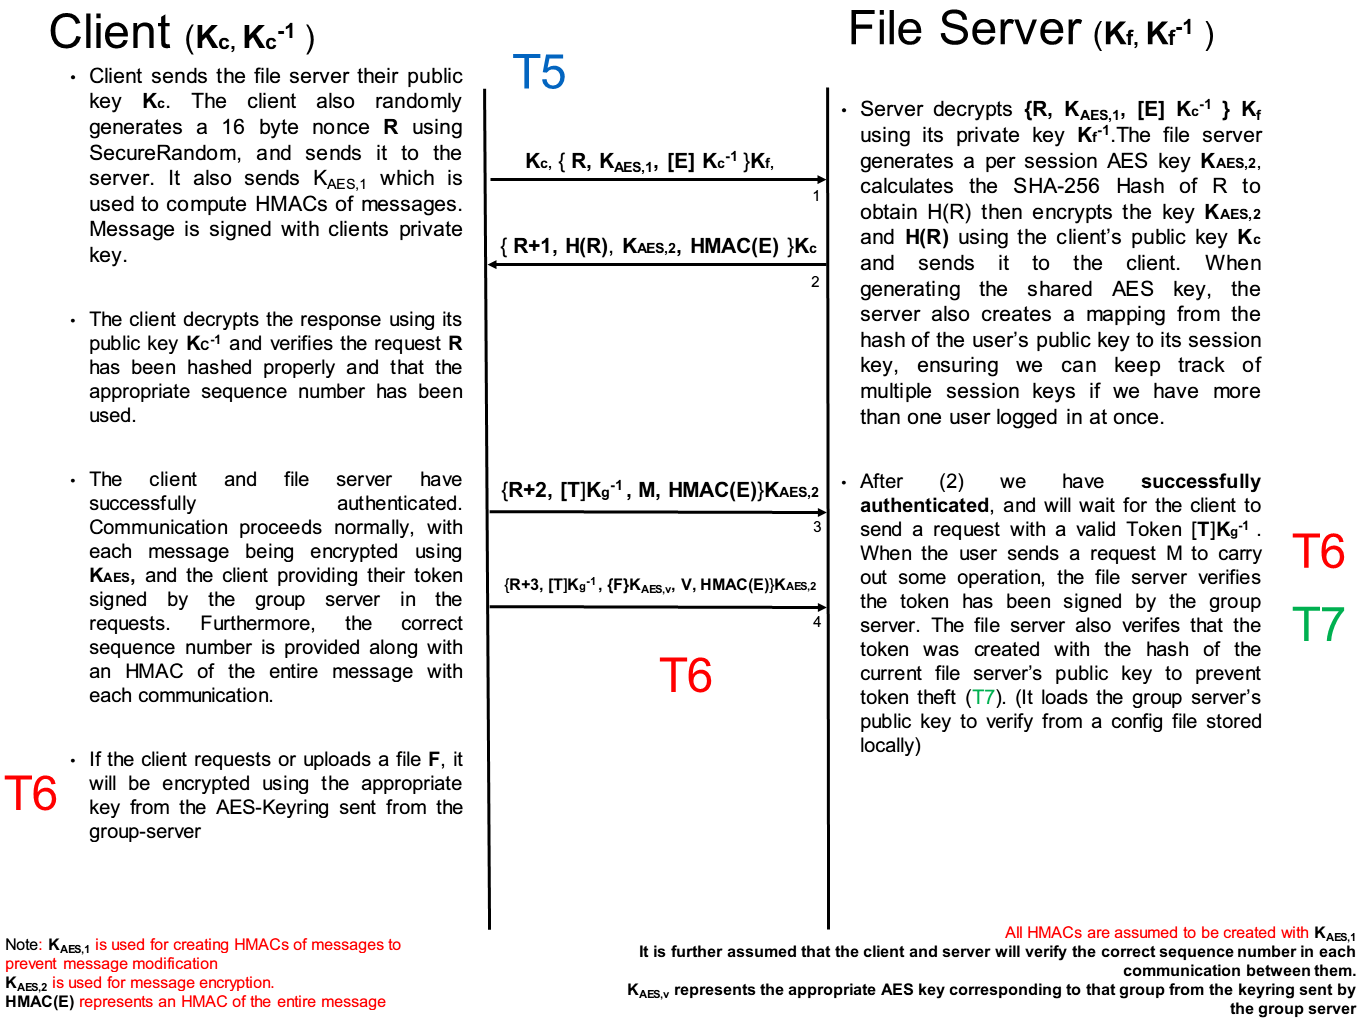
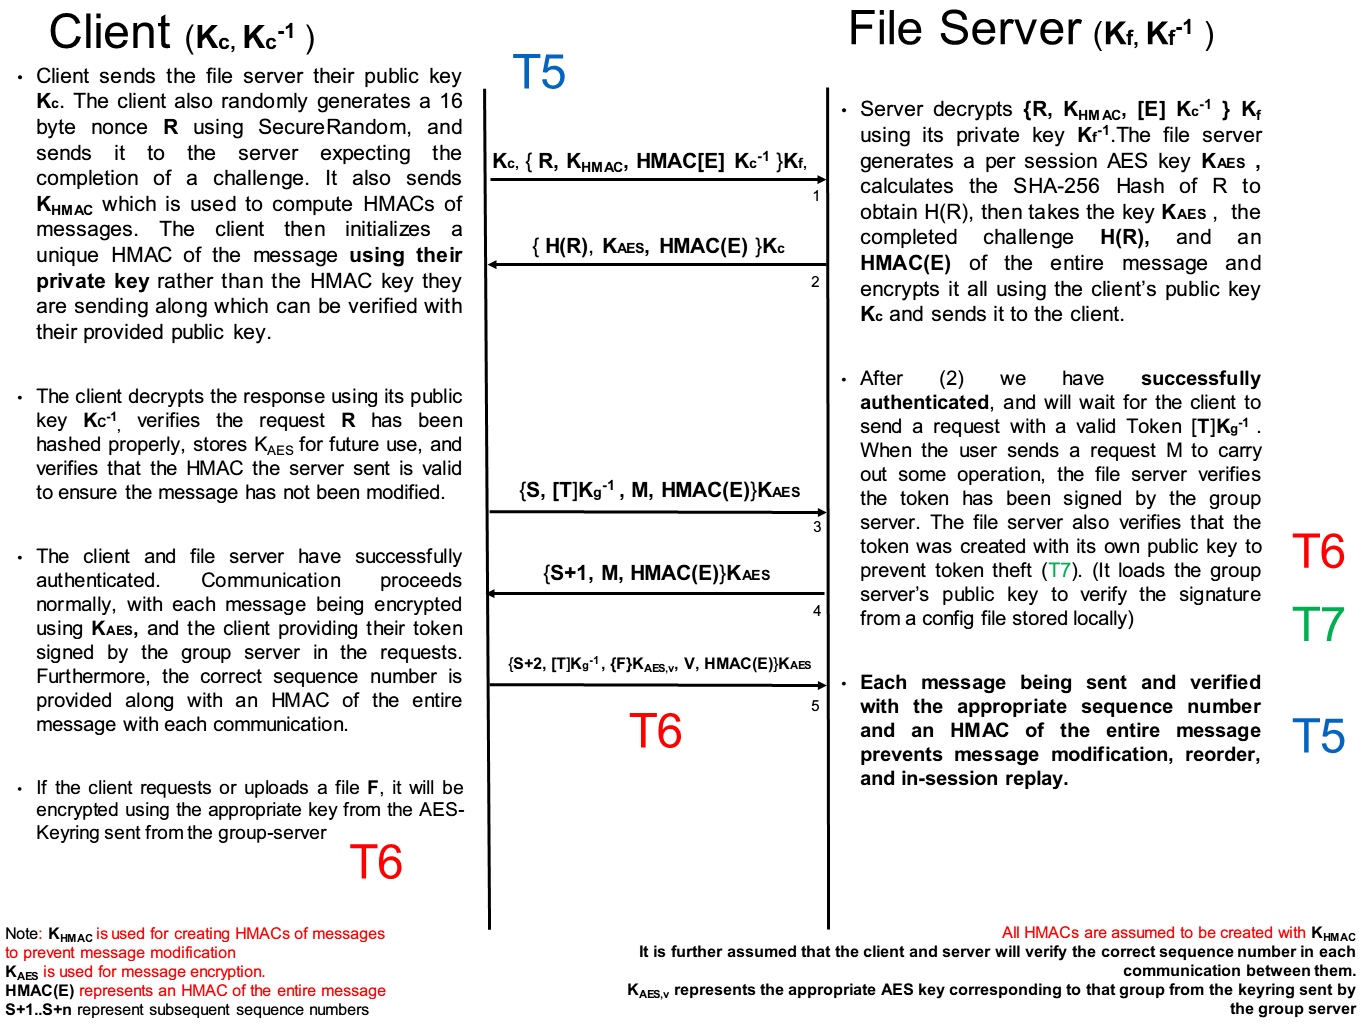
almost done readme. done diagrams

diff --git a/doc/phase4-writeup.htm b/doc/phase4-writeup.htm
@@ -11,6 +11,12 @@ header {
   text-align: center;
 }
 
+.img {
+    display: block;
+    margin-left: auto;
+    margin-right: auto;
+}
+
 /* END CHANGES HERE */
   </style>
   <body>
@@ -34,47 +40,149 @@ header {
 <!-- <p>In this section, broadly overview the types of cryptographic techniques that your group has decided to use to address threats T5–T7.</p> -->
 
 <!-- END CHANGES HERE -->
-
-<img src="../doc/t5_6_gs.png" style="width:1000px;">
-<img src="../doc/t5_6_fs.png" style="width:1000px;">
+<h3 style="text-align: center;"><b>Group Server Communication</b></h3>
+<img class="img" src="../doc/t5_6_gs.png" style="width:1000px;">
+<br />
+<h3 style="text-align: center;"><b>File Server Communication</b></h3>
+<img class="img" src="../doc/t5_6_fs.png" style="width:1000px;">
     </section>
     <section id="threat5">
       <h2>Threat T5: Message Reorder, Replay, or Modification</h2>
 <!-- BEGIN CHANGES HERE -->
 
-<p>
-    Add a sequence number to messages during a single session with the file server or group server. This will prevent messages from being replayed or reordered, because they will be out of order with the number the server is expecting. Furthermore, messages sent during the authentication / handshake phase will be signed and verified by their respective senders / receivers.
-</p>
-<p>
-	Replay:
-	<br />
-		&nbsp;- Session key prevents OUT OF session replays.
-	<br />
-		&nbsp;- Sequence numbers prevent IN session replays.
-	<br />
-	Reorder:
-	<br />
-		&nbsp;- Sequence numbers prevent reordering of messages.
-	<br />
-	Modification:
-	<br />
-		&nbsp;- An HMAC will allow each recipient to verify whether the message has been modified or not. We create HMACs and initialize them using the shared AES session key (see phase3-writeup). Messages sent before the session key is exchanged (i.e., during authentication) are verified using RSA signatures since we do not yet have a shared key.
-</p>
+<h3>Describing the Threat</h3>
+This threat can be broken down into multiple categories:
+<ul>
+    <li>
+        <p>
+            <b>In-Session Replay Attacks:</b>
+            <br />
+            These occur when an adversary attempts to replay messages that have been sent to or from the client or server within one particular session.
+        </p>
+        <p>
+            Since we make no effort to verify the order in which messages came in, an old message from the same session would appear completely legitimate to both our client and server. Thus, our P3 implementation is vulnerable to In-Session replay attacks. We will show that adding sequence numbers mitigates this threat.
+        </p>
+    </li>
+    <li>
+        <p>
+            <b>Out-of-Session Replay Attacks:</b>
+            <br />
+            These occur when an adversary attempts to replay messages from a previous session that have been sent to or from the client or server AFTER that particular session is over.
+        </p>
+        <p>
+            Due to the fact that the server (file or group) generates the per-session AES keys we have already mitigated this threat in our P3 implementation. This is due to the fact that each session has a session key which is unique to it. If an adversary attempts to replay a message from an old session both the client and the server would reject it due to an invalid session key.
+        </p>
+    </li>
+    <li>
+        <p>
+            <b>Reorder Attacks:</b>
+            <br />
+            These occur when an active man-in-the-middle attempts to re-order messages happening within a particular session with the intention of causing something harmful to happen or disrupting the normal flow of communication.
+        </p>
+        <p>
+            Since our P3 implementation makes no effort to validate that a message came in the correct order, it is particularly vulnerable to re-order attacks. We will show that adding sequence numbers to our encrypted communication will prevent this threat.
+        </p>
+    </li>
+    <li>
+        <p>
+            <b>Modification Attacks:</b>
+            <br />
+            These occur when an active man-in-the-middle attempts to modify messags happening within a particular session with the intention of causing disruption or preventing normal flow of communication and requests.
+        </p>
+        <p>
+            The only message that is verified by a signature in our P3 implementation was the Token sent to the file server. Every other communication is vulnerable to modification attacks.
+        </p>
+        <p>
+            An HMAC will allow each recipient to verify whether the message has been modified or not. We create HMACs and initialize them using the shared HMAC key for our particular session (see diagrams). Messages sent before the session key is exchanged (i.e., during authentication) are verified an HMAC that is created with the senders private RSA key since since we do not yet have a shared key.
+        </p>
+    </li>
+</ul>
+<h3>Mechanisms to protect against this Threat</h3>
+<ul>
+    <li>
+        <p>
+            <b>In-Session Replay Attacks:</b>
+            <br />
+            To protect against In-Session replay attacks we added sequence numbers to each subsequent message after the handshake is complete. Every message sent to and from the client and server have their sequence number verified by the respective recipient. If a message is out of order, we print a notification and disregard the message while continuing normal behavior. This lets the user know an adversary is potentially replaying old messages or doing someting else such as modifying them.
+        </p>
+    </li>
+    <li>
+        <p>
+            <b>Out-of-Session Replay Attacks:</b>
+            <br />
+            As we mentioned in the above section, our P3 implementation largely already protected against out-of-session replay attacks. To further solidfy this protection the client is now also generating a per-session HMAC key which adds freshness from BOTH sides, making it even harder to achieve an out of session replay attack.
+        </p>
+    </li>
+    <li>
+        <p>
+            <b>Reorder Attacks:</b>
+            <br />
+            Similar to in-session replay attacks, we protect against reordering attacks by adding a sequence number inside of each encrypted message. When the message is decrypted by either the client or the server, they verify the correct sequence number has been used and send the incremented sequence number in their next message.
+        </p>
+    </li>
+    <li>
+        <p>
+            <b>Modification Attacks:</b>
+            <br />
+            Modification attacks are handled by adding an HMAC of the entire message we're sending BEFORE encrypting it. We add the HMAC of the entire message to the message, encrypt the whole message, then send it along. The recipient decrypts the message, removes the HMAC, recomputes the HMAC of the message with the shared HMAC key and thus verifies the integrity of the file.
+        </p>
+    </li>
+</ul>
+<h3>Why This is Sufficient</h3>
+<ul>
+    <li>
+        <p>
+            <b>In-Session Replay Attacks:</b>
+            <br />
+            Sequence numbers adequately address in-session replay attacks because we reject messages with old sequence numbers on both the server and client side. If an adversary attempts to replay an old message from the same session, both the client and the server will attempt to verify that the sequence number is the one that's expected. When the logic fails to verify the sequence number, the old replayed message is rejected.
+        </p>
+    </li>
+    <li>
+        <p>
+            <b>Out-of-Session Replay Attacks:</b>
+            <br />
+        </p>
+    </li>
+    <li>
+        <p>
+            <b>Reorder Attacks:</b>
+            <br />
+            Sequence numbers adequately address reorder attacks because we reject messages with sequence numbers that are out of order. If an adversary attempts to re-order the messages we sent, both our client and server will provide failure messages and reject the out of order message. The attacker will succeed in disrupting communication, but not in causing anything harmful other than annoyance. The client will have to send the request again if it was ignored due to re-ordering.
+        </p>
+    </li>
+    <li>
+        <p>
+            <b>Modification Attacks:</b>
+            <br />
+            HMACs adequately address modification attacks because we check the integrity of each message which is sent between our client and server. If a message is modified, upon receiving it the recipient will attempt to validate the HMAC against the message contents. If the message has been modified, the HMAC verification will fail and the recipient will be notified. The message will then be rejected. This prevents modified messages from being accepted by the client or the server.
+        </p>
+    </li>
+</ul>
 <!-- END CHANGES HERE -->
     </section>
     <section id="threat6">
       <h2>Threat T6: File Leakage</h2>
 <!-- BEGIN CHANGES HERE -->
-
-<h4>Description of Mechanism</h4>
+<h3>Describing the Threat</h3>
 <p>
-	In the GroupList object, the group server will store a HashMap of Group Name strings to an ArrayList of AES keys. The index in the ArrayList will indicate the 'version' of the key (i.e., ArrayList.get(0) will contain the "first" key in the list, and ArrayList.get(ArrayList.size()) will represent the "latest" or "last" key in the list).
+    File leakage can be seen when a file server decides to become malicious and leak its files to adversaries. This is clearly a problem if the files are not encrypted because then adversaries have access to private files which they should not have access to.
+</p>
+<p>
+    Our P3 implementation stores all files in plaintext on the file server and makes no attempt to obfuscate them. Thus our P3 implementation is particularly vulnerable to file leakage.
+</p>
+<h3>Description of Mechanism</h3>
+<p>
+    To solve the problem, we implemented a system of versioned <b>key rings</b> that are given to users when they request a token as a separate object. These keyrings are tied to a particular group and stored in the GroupList object. When a user requests a token, they are given a keyring which is a HashMap of Group Name strings to an ArrayList of keys. The index of the keys indicates the <b>version number</b> of the key. When a user is removed or deleted from a group on the group server, a new key is generated for all the groups that user was a member of. This ensures they don't have access to newly encrypted files. The version number of the key is stored in the ShareFile for each individual file on the file server. But the file server never has access to the actual keys. This is a <b>lazy revocation</b> technique, as opposed to <b>active re-encryption</b>.
+</p>
+<b>More indepth mechanism description:</b>
+<p>
+	In the GroupList object, the group server will store an arraylist of AES keys. The index in the ArrayList will indicate the 'version' of the key (i.e., ArrayList.get(0) will contain the "first" key in the list, and ArrayList.get(ArrayList.size()) will represent the "latest" or "last" key in the list).
 </p>
 <p>
 	When a client requests a token, they will be given another object as well. This object will be a HashMap of String group names to an ArrayList of keys. The group server will only provide group names (and corresponding keys) that the user is a member of.
 </p>
 <p>
-	When a client uploads a new file to the file server, they will encrypt it with the latest version of the AES key for that group, and append the version number to the encrypted file. When a client downloads a file, they will check the version number appended to the file, and decrypt it using the appropriate key corresponding to that version number.
+	When a client uploads a new file to the file server, they will encrypt it with the latest version of the AES key for that group, and add the version number to the ShareFile of the encrypted file which is stored in the FileList. When a client downloads a file, they will check the version number which is returned, and decrypt it using the appropriate key corresponding to that version number.
 </p>
 <p>
 	To handle the version numbering, our EncryptionSuite class will have an encryptFile and decryptFile method. Both methods will take a file and an arrayList of keys as parameters. The encryptFile will use the latest key then append the index as the version number to the end of the file. The decryptFile method will remove the appended version number, then use the version number to index the appropriate key to decrypt the file.
@@ -82,19 +190,34 @@ header {
 <p>
 	When a user is removed from a group or deleted, the group server will generate new keys for all relevant groups (e.g., if a user is deleted, the group server will generate a new key for each group they were a member of).
 </p>
-
-
+<h3>Why This is Sufficient</h3>
+<p>
+    This largely prevents file leakage because each file sent to the file server will be encrypted with an AES key that is never visible to the file server. It is only visible to the user uploading or downloading the file who has access to the group the file is owned by.
+</p>
+<p>
+    Since the file server never sees the keys, and only receives encrypted files, the only way files can be leaked is if they are leaked to a malicious user who CURRENTLY has access to the group.
+</p>
+<p>
+    If a user is removed from a group or deleted, but stores the keyring they have access to, they will only have access to files they already could have stolen when they became malicious.
+</p>
+<p>
+    Say, for example, a user becomes malicious and downloads all the files they have access to. Presumably an administrator will swiftly remove them from the group or delete them altogether. Since they already would have had access to files encrypted with the old key, there is no reason for <b>active re-encryption</b>. Thus, we took a <b>lazy revocation</b> technique where, when a user is removed or deleted, a new key is generated for that group that the <i>old</i> user would <b>not</b> have access to.
+</p>
 
 <!-- END CHANGES HERE -->
     </section>
     <section id="threat7">
       <h2>Threat T7: Token Theft</h2>
 <!-- BEGIN CHANGES HERE -->
+
+<h4>Describing the Threat</h4>
+<h4>Description of Mechanism</h4>
 <p>
     We are going to create a unique identifier (hash of the public key) that is an immutable field in our token which is unique to the server we're connecting to. So when a token is created, the user will provide the public key hash of a file server they're connecting to. The file server will verify that the public key hash provided in the token is its own. This ensures that a token cannot be used to connect to a DIFFERENT file server than the one that was originally intended.
 
 	When the client initially starts up the application, we request the file server's public key. The client validates whether or not this is the correct public key.
 </p>
+<h4>Why This is Sufficient</h4>
 <!--  The authentication protocol from phase 3 already checks to see if we're connecting to an unauthorized file server so sending a token to an unauthorized file server should not be possible. -->
 
 <!-- END CHANGES HERE -->
